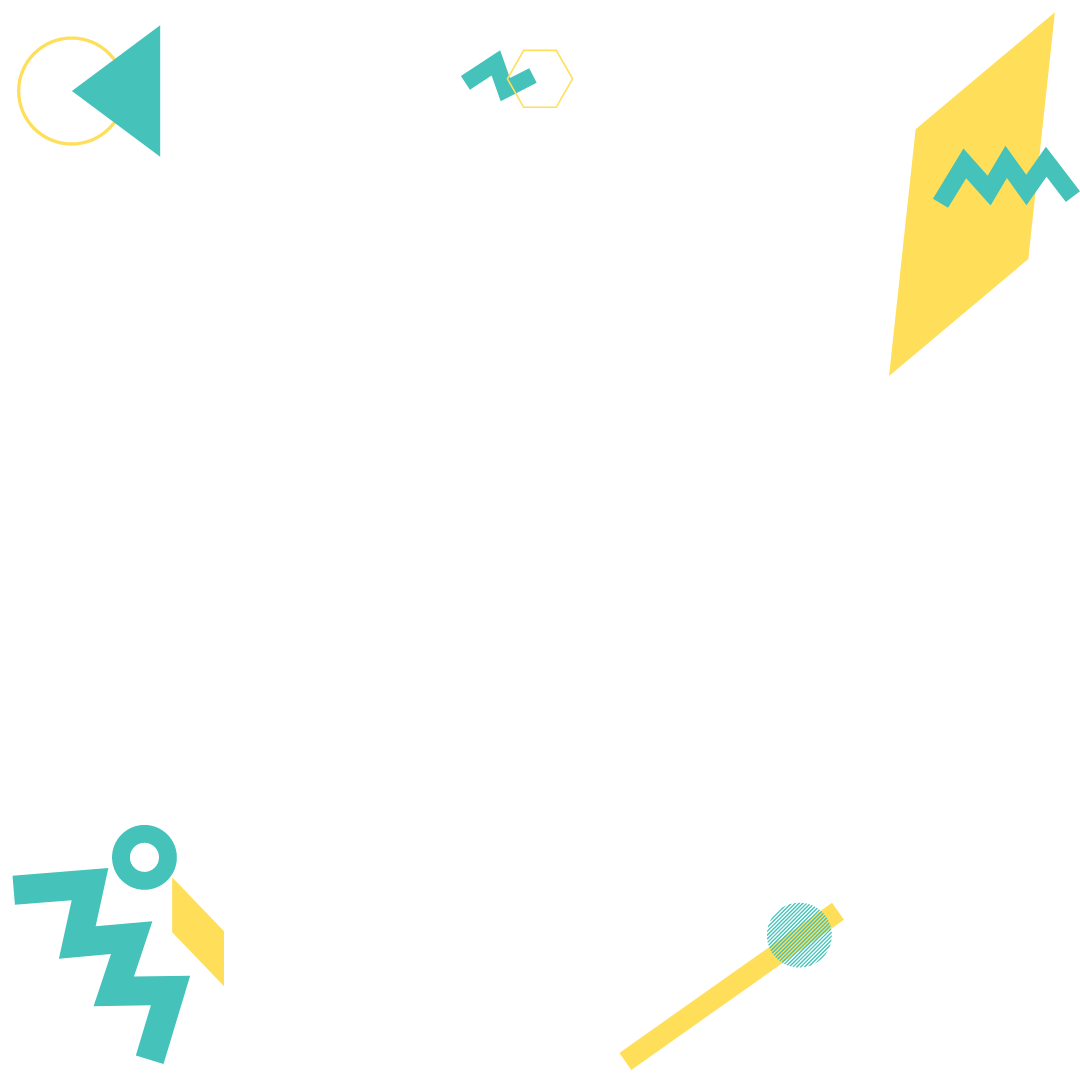
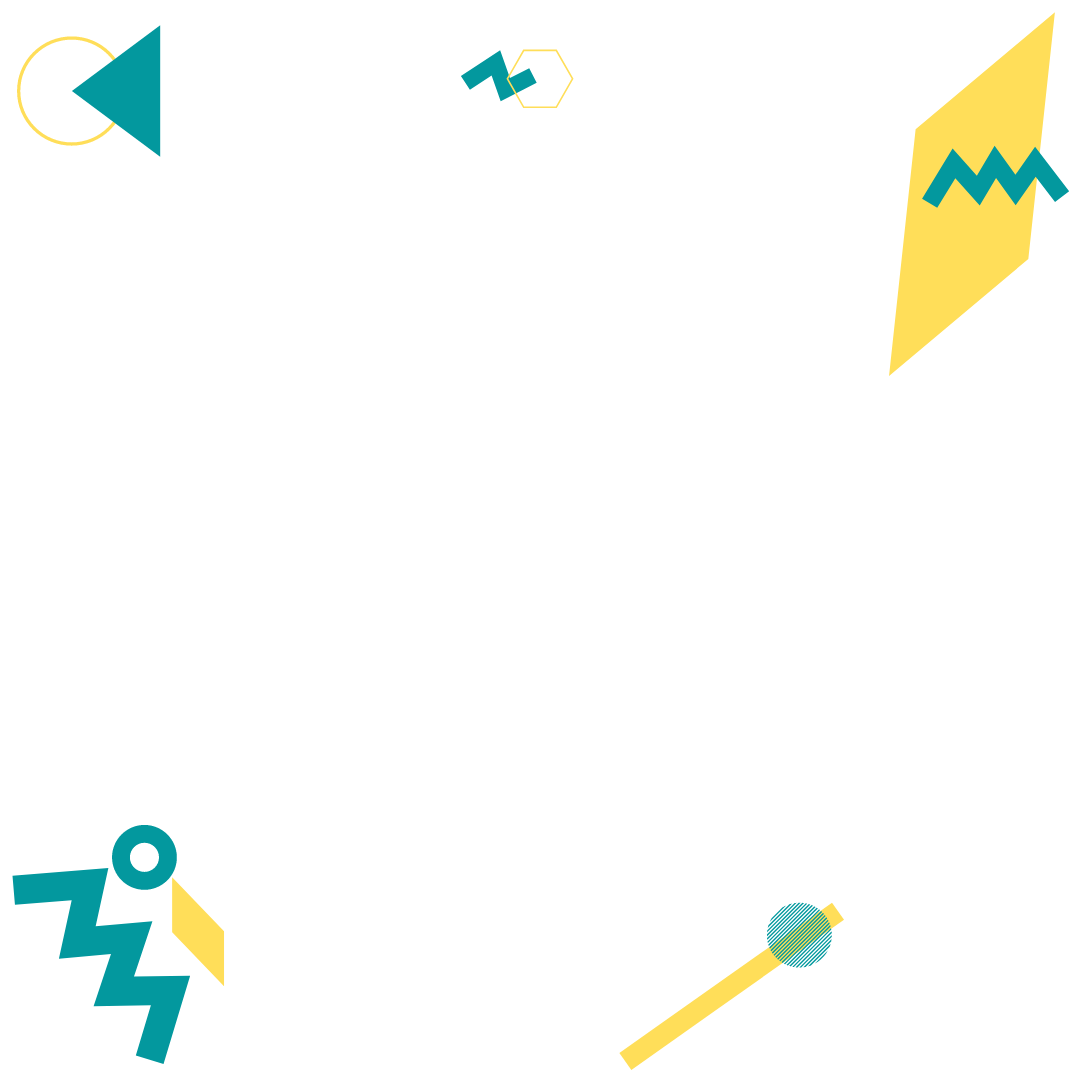
Change colors, display links in new tabs

diff --git a/index.html b/index.html
@@ -13,7 +13,7 @@
 <nav class="navbar main-navbar px-0">
     <ul class="navbar-nav flex-row w-75 mx-auto justify-content-between">
         <li class="navbar-brand">
-         <p class="my-0 font-weight-bold logo">Aldana</p>
+         <h2 class="my-0 font-weight-bold logo">Aldana</h2>
         </li>
         <li class="d-flex align-items-center navbar-links">
             <a href="#projects"><p class="my-0 mr-3">Portfolio</p></a>
@@ -32,9 +32,9 @@
                 Feel free to go through some of my projects so you can have an idea of what I'm capable of. If this looks like what you need, contact me! 
             </p>
             <div>
-                <a href="https://github.com/AlduLonghi"><img class="header-icon" src="assets/github.svg" alt="github-logo"></a>
-                <a href="https://www.linkedin.com/in/aldana-abril-longhi-a842ba1a7/"><img class="header-icon" src="assets/linkedin.svg" alt="linkedin-logo"></a>
-                <a href="https://twitter.com/AbrilLonghi"><img class="header-icon" src="assets/twitter.svg" alt="twitter-logo"></a>
+                <a href="https://github.com/AlduLonghi" target="_blank"><img class="header-icon" src="assets/github.svg" alt="github-logo"></a>
+                <a href="https://www.linkedin.com/in/aldana-abril-longhi-a842ba1a7/" target="_blank"><img class="header-icon" src="assets/linkedin.svg" alt="linkedin-logo"></a>
+                <a href="https://twitter.com/AbrilLonghi" target="_blank"><img class="header-icon" src="assets/twitter.svg" alt="twitter-logo"></a>
             </div>
           </div> 
       </div>
@@ -44,11 +44,11 @@
         <div class="row">
             <div class="col-12 col-lg-6 mt-4">
                 <div class="card projects-card">
-                    <img src="assets/homepage.png" class="card-img-top px-3 py-3" alt="...">
+                    <img src="assets/homepage.png" class="card-img-top px-3 py-3" alt="University directory">
                     <div class="card-body">
                       <h5 class="card-title font-weight-bold">University directory</h5>
                       <ul class="d-flex justify-content-start">
-                          <li class="mr-5">Front-end</li>
+                          <li class="mx-4">Front-end</li>
                           <li>2020</li>
                       </ul>
                       <div class="d-flex">
@@ -62,18 +62,18 @@
                       </p>
                       <div class="d-flex justify-content-around w-85 mx-auto">
                         <a href="https://flamboyant-leakey-ad7b1d.netlify.app/" class="btn btn-1 font-weight-bold">Live demo</a>
-                        <a href="https://github.com/AlduLonghi/Directory-Capstone-Project" class="btn btn-2 font-weight-bold">Source code</a>
+                        <a href="https://github.com/AlduLonghi/Directory-Capstone-Project" target="_blank" class="btn btn-2 font-weight-bold">Source code</a>
                       </div>
                     </div>
                 </div>
             </div>
             <div class="col-12 col-lg-6 mt-4">
                 <div class="card projects-card">
-                    <img src="assets/newsweek.png" class="card-img-top px-3 py-3" alt="...">
+                    <img src="assets/newsweek.png" class="card-img-top px-3 py-3" alt="Newsweek clone">
                     <div class="card-body">
                       <h5 class="card-title font-weight-bold">Newsweek clone</h5>
                       <ul class="d-flex justify-content-start">
-                          <li class="mr-5">Front-end</li>
+                          <li class="mx-4">Front-end</li>
                           <li>2020</li>
                       </ul>
                       <div class="d-flex">
@@ -85,19 +85,19 @@
                         This was approached by using the Bootstrap framework as well as implementing media queries.
                       </p>
                       <div class="d-flex justify-content-around w-85 mx-auto">
-                        <a href="https://rawcdn.githack.com/Maryjanee/The-Newsweek-Clone/4d19c93d89324e5527e8139e305dc14b47f3da9b/index.html" class="btn btn-1 font-weight-bold">Live demo</a>
-                        <a href="https://github.com/Maryjanee/The-Newsweek-Clone" class="btn btn-2 font-weight-bold">Source code</a>
+                        <a href="https://rawcdn.githack.com/Maryjanee/The-Newsweek-Clone/4d19c93d89324e5527e8139e305dc14b47f3da9b/index.html" target="_blank" class="btn btn-1 font-weight-bold">Live demo</a>
+                        <a href="https://github.com/Maryjanee/The-Newsweek-Clone" target="_blank" class="btn btn-2 font-weight-bold">Source code</a>
                       </div>
                     </div>
                 </div>
             </div>
             <div class="col-12 col-lg-6 mt-4">
                 <div class="card projects-card">
-                    <img src="assets/web-scraper.jpg" class="card-img-top px-3 py-3" alt="...">
+                    <img src="assets/web-scraper.jpg" class="card-img-top px-3 py-3" alt="Bitdegree scraper">
                     <div class="card-body">
                       <h5 class="card-title font-weight-bold">Bitdegree web scraper</h5>
                       <ul class="d-flex justify-content-start">
-                          <li>2020</li>
+                          <li class="mx-4">2020</li>
                       </ul>
                       <div class="d-flex">
                           <p class="rounded-pill tags px-2 py-1">Ruby</p>
@@ -107,18 +107,18 @@
                         The program stores the data in a file displaying it as a table. Click the button below for instructions on how to run it!
                       </p>
                       <div class="d-flex justify-content-around w-85 mx-auto">
-                        <a href="https://github.com/AlduLonghi/Web-scraper" class="btn btn-2 font-weight-bold">Source code</a>
+                        <a href="https://github.com/AlduLonghi/Web-scraper" target="_blank" class="btn btn-2 font-weight-bold">Source code</a>
                       </div>
                     </div>
                 </div>
             </div>
             <div class="col-12 col-lg-6 mt-4">
                 <div class="card projects-card">
-                    <img src="assets/twitter.png" class="card-img-top px-3 py-3" alt="...">
+                    <img src="assets/twitter.png" class="card-img-top px-3 py-3" alt="Twitter clone">
                     <div class="card-body">
                       <h5 class="card-title font-weight-bold">Twitter clone</h5>
                       <ul class="d-flex justify-content-start">
-                          <li class="mr-5">Full-stack</li>
+                          <li class="mx-4">Full-stack</li>
                           <li>2020</li>
                       </ul>
                       <div class="d-flex">
@@ -131,8 +131,8 @@
                         The user should be able to sign-up, publish his "opinions", follow other users and having favorite opinions.
                       </p>
                       <div class="d-flex justify-content-around w-85 mx-auto">
-                        <a href="https://nameless-escarpment-79956.herokuapp.com/" class="btn btn-1 font-weight-bold">Live demo</a>
-                        <a href="https://github.com/AlduLonghi/twitter-capstone" class="btn btn-2 font-weight-bold">Source code</a>
+                        <a href="https://nameless-escarpment-79956.herokuapp.com/" target="_blank" class="btn btn-1 font-weight-bold">Live demo</a>
+                        <a href="https://github.com/AlduLonghi/twitter-capstone" target="_blank" class="btn btn-2 font-weight-bold">Source code</a>
                       </div>
                     </div>
                 </div>
@@ -147,20 +147,20 @@
                 <h3 class="text-center mt-3">Aldana Longhi</h3>
             </div>
             <div class="col-12 col-xl-6 desc-container d-flex flex-column justify-content-center  pb-4">
-                <p class="w-85 d-block mx-auto pt-4">I found in programming the perfect combination of three of my great passions: design, logic, and problem-solving. 
+                <p class="w-85 d-block mx-auto pt-4">Programming is not just about writing code that works, it's a way of thinking about the world and its problems. 
                 When I started writing my first lines of code, I couldn't believe the great things that I was accomplishing with just a few words. </br> </br>
-                That made me an unstoppable learner as there is no limit to what you can develop, how you can develop it, and how far you can make it go. </br> 
+                That made me an unstoppable learner as there is no limit to what you can develop, how you can develop it, and how far you can make it go. </br> </br> 
                 I also believe in simplicity as a means of achieving efficiency and that there is always a better way to write your code so performance is on point
               </p>
               <p class="connect w-85 d-block mx-auto">Let's connect!</p>
               <div class="icons-container mx-auto d-flex mb-3 w-85">
-                <a href="https://github.com/AlduLonghi"><img class="header-icon mt-1" src="assets/github.svg" alt="github-logo"></a>
-                <a href="https://www.linkedin.com/in/aldana-abril-longhi-a842ba1a7/"><img class="header-icon mt-1" src="assets/linkedin.svg" alt="linkedin-logo"></a>
-                <a href="https://twitter.com/AbrilLonghi"><img class="header-icon mt-1" src="assets/twitter.svg" alt="twitter-logo"></a>
-                <a href="https://docs.google.com/document/d/1zMud_svzpoJZfQKI2b_JXgESuhG_SdG5RXjPSfWFCKk/edit?usp=sharing" class="btn btn-1 font-weight-bold ml-3">Get my resume</a>
+                <a href="https://github.com/AlduLonghi" target="_blank"><img class="header-icon mt-1" src="assets/github.svg" alt="github-logo"></a>
+                <a href="https://www.linkedin.com/in/aldana-abril-longhi-a842ba1a7/" target="_blank"><img class="header-icon mt-1" src="assets/linkedin.svg" alt="linkedin-logo"></a>
+                <a href="https://twitter.com/AbrilLonghi" target="_blank"><img class="header-icon mt-1" src="assets/twitter.svg" alt="twitter-logo"></a>
+                <a href="https://docs.google.com/document/d/1zMud_svzpoJZfQKI2b_JXgESuhG_SdG5RXjPSfWFCKk/edit?usp=sharing" target="_blank" class="btn btn-1 font-weight-bold ml-3">Get my resume</a>
               </div>
             </div>
-            <div class="col-12 col-xl-3 lang-row mt-5  pb-4">
+            <div class="col-12 col-xl-3 lang-row pb-4">
                 <h4 class="d-block w-100 text-muted">Languages</h4>
                 <div class="col-12 d-flex px-0 mt-2">
                     <div class="lang-container px-2 py-2 mr-3">

diff --git a/css/style.css b/css/style.css
@@ -1,3 +1,10 @@
+* {
+  margin: 0;
+  padding: 0;
+  -webkit-box-sizing: border-box;
+          box-sizing: border-box;
+}
+
 body {
   background-color: #f4f5f7;
   font-family: "Poppins", sans-serif;
@@ -12,7 +19,7 @@ body {
 }
 
 .logo {
-  color: #45c2ba;
+  color: #10827a;
 }
 
 header p {
@@ -20,7 +27,7 @@ header p {
 }
 
 .navbar-links p {
-  color: grey;
+  color: #63635e;
 }
 
 header .row {
@@ -84,17 +91,17 @@ header h1 {
 }
 
 .tags {
-  background-color: #45c2ba;
+  background-color: #10827a;
   color: white;
 }
 
 .btn-1 {
   border: 2px solid #ffde59;
-  color: #45c2ba;
+  color: #10827a;
 }
 
 .btn-2 {
-  background-color: #45c2ba;
+  background-color: #10827a;
   color: white;
 }
 
@@ -134,8 +141,18 @@ header h1 {
 }
 
 .lang-row {
-  padding-left: 4rem;
-  padding-right: 4rem;
+  display: -webkit-box;
+  display: -ms-flexbox;
+  display: flex;
+  -webkit-box-orient: vertical;
+  -webkit-box-direction: normal;
+      -ms-flex-direction: column;
+          flex-direction: column;
+  -webkit-box-pack: center;
+      -ms-flex-pack: center;
+          justify-content: center;
+  -ms-flex-line-pack: center;
+      align-content: center;
 }
 
 .lang-container {
@@ -149,7 +166,7 @@ header h1 {
 }
 
 .connect {
-  color: #45c2ba;
+  color: #10827a;
   font-size: 1.2rem;
 }
 
@@ -231,6 +248,7 @@ header h1 {
   .lang-row {
     padding-left: 0;
     padding-right: 0;
+    padding-top: 3rem;
   }
 }
 /*# sourceMappingURL=style.css.map */

diff --git a/css/style.scss b/css/style.scss
@@ -1,4 +1,4 @@
-$turquoise-color: #45c2ba;
+$turquoise-color: #10827a;
 $yellow-color: #ffde59;
 $body-color: #f4f5f7;
 $font-family: 'Poppins', sans-serif;
@@ -33,7 +33,7 @@ header p {
 }
 
 .navbar-links p {
-  color: grey;
+  color: $dark-grey;
 }
 
 header .row {
@@ -117,7 +117,6 @@ header h1 {
   border: 4px solid $yellow-color;
 }
 
-
 .img-column {
   color: $dark-grey;
 }
@@ -137,8 +136,10 @@ header h1 {
 }
 
 .lang-row {
-  padding-left: 4rem;
-  padding-right: 4rem;
+  display: flex;
+  flex-direction: column;
+  justify-content: center;
+  align-content: center;
 }
 
 .lang-container {
@@ -244,5 +245,6 @@ header h1 {
   .lang-row {
     padding-left: 0;
     padding-right: 0;
+    padding-top: 3rem;
   }
 }
